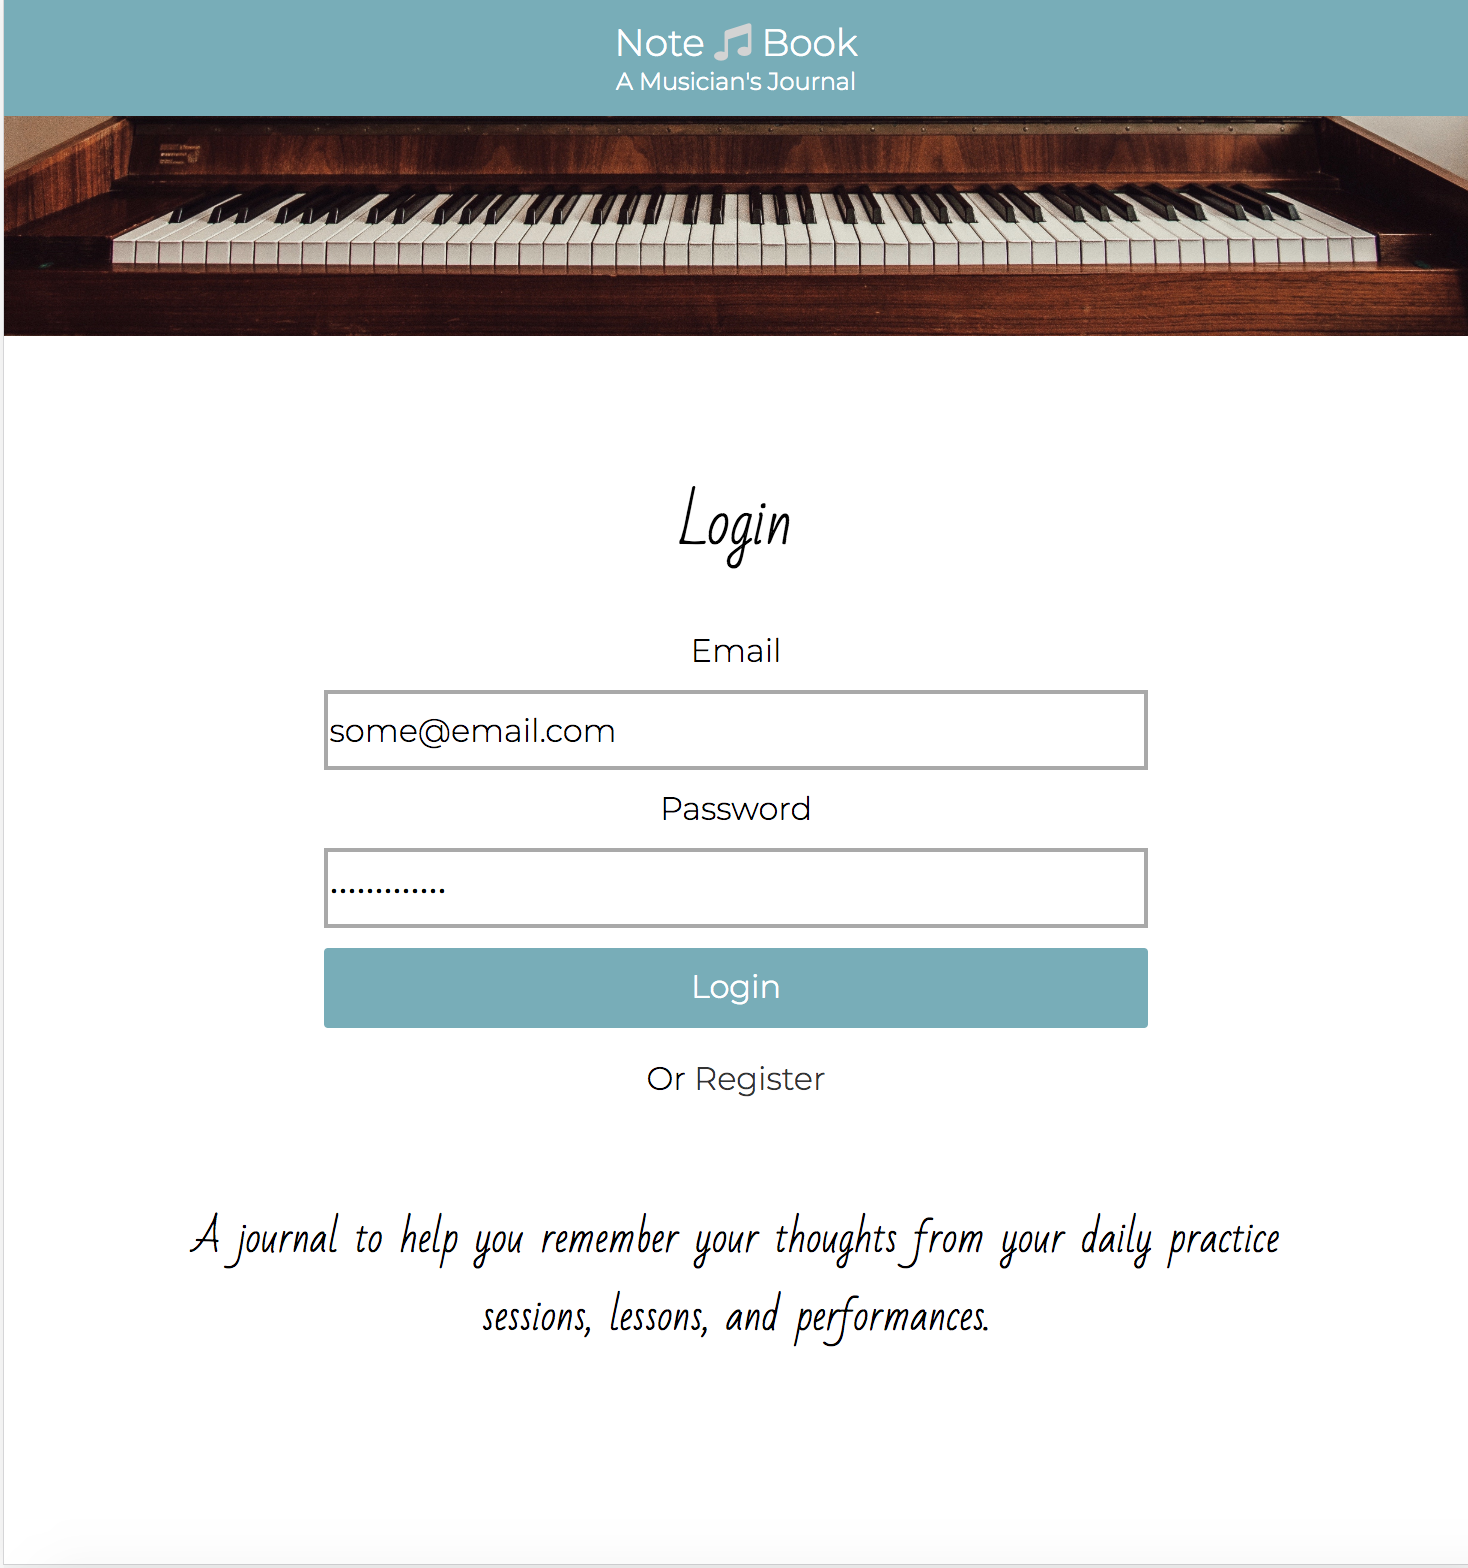
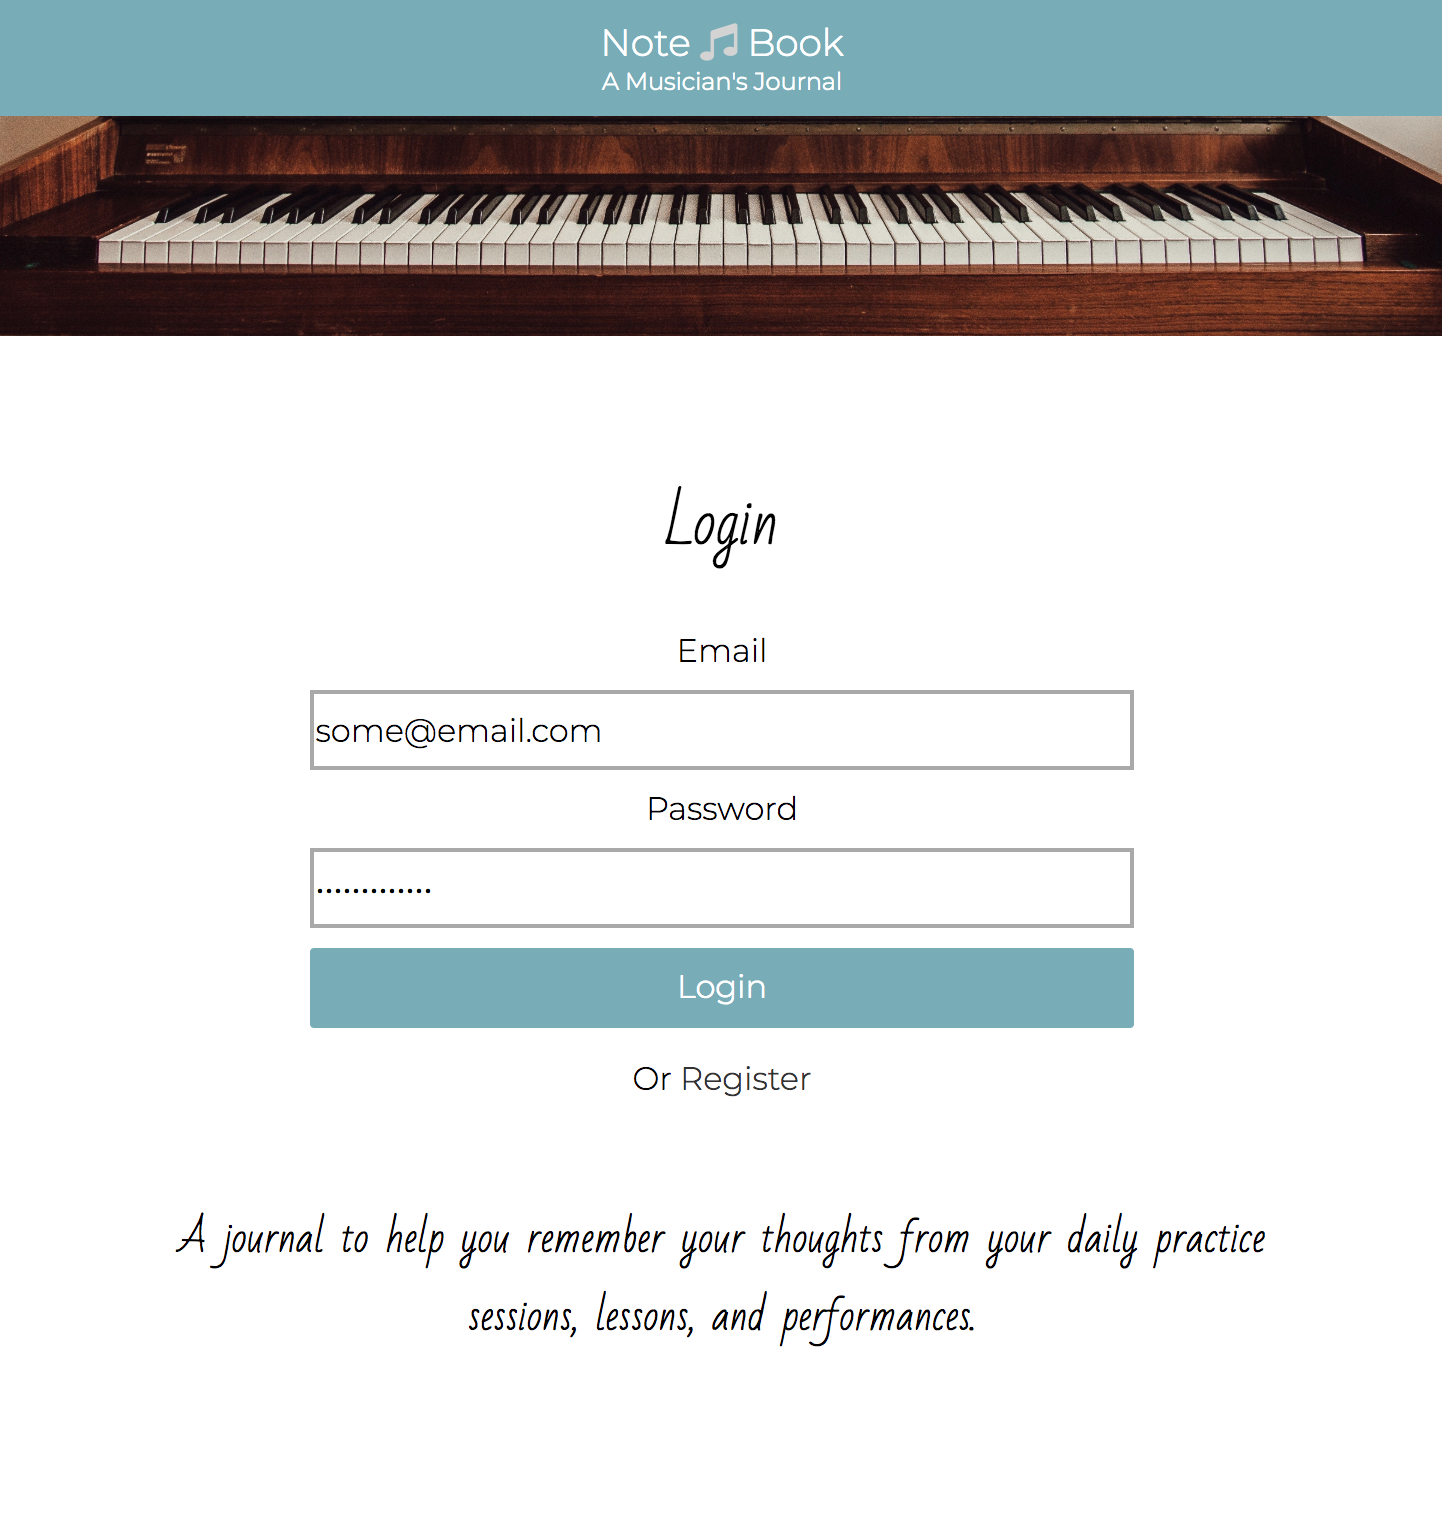
Add background img

diff --git a/js/portfolio.template.js b/js/portfolio.template.js
@@ -24,9 +24,9 @@ const portfolio_template = $(`<section class="section portfolio">
         be there to help guide you along.
          </p>
          <div class="project__links">
-            <div class="project__link"><a href="https://boiling-mountain-55806.herokuapp.com/">View Project</a></div>
-            <div class="project__link"><a href="https://github.com/velafarq/practica-app">View Client-Side Code</a></div>
-            <div class="project__link"><a href="https://github.com/velafarq/practica-api">View Server-Side Code</a></div>
+            <div class="project__link"><a  target="_blank" href="https://boiling-mountain-55806.herokuapp.com/">View Project</a></div>
+            <div class="project__link"><a  target="_blank" href="https://github.com/velafarq/practica-app">View Client-Side Code</a></div>
+            <div class="project__link"><a  target="_blank" href="https://github.com/velafarq/practica-api">View Server-Side Code</a></div>
          </div>
     </div>
   </div>
@@ -53,8 +53,8 @@ const portfolio_template = $(`<section class="section portfolio">
             useful experiences so that they can refer to later.
         </p>
         <div class="project__links">
-            <div class="project__link"><a href="https://calm-escarpment-51268.herokuapp.com/">View Project</a></div>
-            <div class="project__link"><a href="https://github.com/velafarq/note-book-app">View Code</a></div>
+            <div class="project__link"><a target="_blank" href="https://calm-escarpment-51268.herokuapp.com/">View Project</a></div>
+            <div class="project__link"><a target="_blank" href="https://github.com/velafarq/note-book-app">View Code</a></div>
         </div>
 
     </div>
@@ -77,8 +77,8 @@ const portfolio_template = $(`<section class="section portfolio">
         <p class="project__description">Key Ingredient uses Yummly's search API to generate different recipes based on a specific ingredient that the user searches.
         </p>
         <div class="project__links">
-            <div class="project__link"><a href="https://nervous-feynman-1b00ef.netlify.com/">View Project</a></div>
-            <div class="project__link"><a href="https://github.com/velafarq/Key-Ingredient">View Code</a></div>
+            <div class="project__link"><a target="_blank" href="https://nervous-feynman-1b00ef.netlify.com/">View Project</a></div>
+            <div class="project__link"><a target="_blank" href="https://github.com/velafarq/Key-Ingredient">View Code</a></div>
         </div>
     </div>
   </div>

diff --git a/js/about.template.js b/js/about.template.js
@@ -1,15 +1,20 @@
-const about_template = $(`<p class="about__body">My love for coding developed through my lifelong commitment for music making. 
-After receiving a degree in Music Performance in Boulder, CO,
+const about_template = $(`<section class="about"><p class="about__body">
+I was drawn to coding because of its huge scope for the imagination and similarities to creating musical harmonies.  
+After receiving a Bachelor's degree in Cello Performance in Boulder, CO,
 I decided to broaden my career and immerse myself in learning full stack development. 
-I was drawn to coding because of its huge scope for the imagination and similarities to creating music and how it can bring anyone together. 
-I love spending hours in front of my code until I create something cool and beautiful. When I’m not coding, I’m playing with my dog, in my music studio, practicing Bach
-or composing my next rock song, or I am questionably combining my Serbian and South African heritage in the
-kitchen, whipping up a tasty storm. Born in Belgrade, Serbia and raised in Cape Town, South Africa, I love traveling around the world, learning about other cultures and connecting with interesting people.
+
+I love spending hours in front of my code until I create something cool, beautiful, and functional. 
+
+Born in Belgrade, Serbia and raised in Cape Town, South Africa, I love traveling around the world, 
+learning about other cultures and connecting with interesting and creative people. My aim is to work in a collaborative team work 
+environment and to 
+interact with fellow team members in an inspirational and productive manner.
+ I strive to produce innovative code that is full of artistic energy.
 
 </p>
 
 <section class="connect">
-<p class="bigger-text connect__heading">I'd love to connect with you!</p>
+<p class="bigger-text connect__heading">I'd love to connect!</p>
 <div class="connect__icons">
     <a class="social" href="https://github.com/velafarq" target="_blank">
         <i class="large-icon social__icon fab fa-github"></i>
@@ -25,6 +30,8 @@ kitchen, whipping up a tasty storm. Born in Belgrade, Serbia and raised in Cape 
         <i class="large-icon social__icon fas fa-envelope"></i>
     </a>
 </div>
+</section>
+
 </section>
 
 `);

diff --git a/index.html b/index.html
@@ -7,7 +7,7 @@
     <meta http-equiv="X-UA-Compatible" content="ie=edge">
     <script src="https://ajax.googleapis.com/ajax/libs/jquery/3.3.1/jquery.min.js"></script>
     <link rel="stylesheet" href="./styles.css">
-    <link rel='shortcut icon' type='image/x-icon' href='./favicon.ico' />
+    <link rel='shortcut icon' type='image/png' href='./favicon.png' />
     <link rel="stylesheet" href="https://use.fontawesome.com/releases/v5.3.1/css/all.css" integrity="sha384-mzrmE5qonljUremFsqc01SB46JvROS7bZs3IO2EmfFsd15uHvIt+Y8vEf7N7fWAU"
         crossorigin="anonymous">
     <link rel="stylesheet" href="https://cdn.rawgit.com/konpa/devicon/df6431e323547add1b4cf45992913f15286456d3/devicon.min.css">
@@ -17,7 +17,7 @@
     <title>Vela Farquharson</title>
 </head>
 
-<body>
+<body class="background">
     <section class="flex-container">
         <header class="header">
             <nav class="header__nav">
@@ -37,17 +37,17 @@
                     About</a>
                 <div class="header__social">
                     <a class="social-header" href="https://github.com/velafarq" target="_blank">
-                        <i class="small-icon social__icon fab fa-github"></i>
+                        <i class="small-icon social__icon__bar fab fa-github"></i>
                     </a>
                     <a class="social-header" href="https://www.linkedin.com/in/velafarquharson/" target="_blank">
-                        <i class="small-icon social__icon fab fa-linkedin-in"></i>
+                        <i class="small-icon social__icon__bar fab fa-linkedin-in"></i>
                     </a>
                     <a class="social-header" href="https://twitter.com/velafarq" target="_blank">
-                        <i class="small-icon social__icon fab fa-twitter"></i>
+                        <i class="small-icon social__icon__bar fab fa-twitter"></i>
                     </a>
 
                     <a class="social-header" href="mailto:vela.mrdjen@gmail.com" target="_blank">
-                        <i class="small-icon social__icon fas fa-envelope"></i>
+                        <i class="small-icon social__icon__bar fas fa-envelope"></i>
                     </a>
                 </div>
 

diff --git a/styles.css b/styles.css
@@ -3,7 +3,7 @@
   padding: 0;
   /* box-sizing: border-box; */
   /* font-family: "Source Sans Pro", sans-serif; */
-  color: #444;
+  color: white;
   font-family: "Roboto Condensed", sans-serif;
   font-weight: lighter;
 }
@@ -16,7 +16,7 @@
   font-size: 20px;
 }
 .large-icon {
-  color: #7a7a7a;
+  color: white;
 }
 
 .bigger-text {
@@ -36,7 +36,7 @@
   padding-right: 20px;
   height: 100%;
   min-height: 500px;
-  background-color: rgba(4, 4, 122, 0.377);
+  background-color: rgba(4, 4, 122, 0.63);
 }
 
 .header__nav {
@@ -71,7 +71,9 @@
   margin: 35px;
   border: none;
 }
-
+.background {
+  background: url("./assets/IMG_6244.png") no-repeat fixed center;
+}
 .main {
   max-height: 100vh;
   margin: auto;
@@ -98,9 +100,18 @@
   justify-content: center;
   text-align: left;
 }
+.blurb {
+  max-width: 1100px;
+}
 
+.blurb p {
+  margin-top: 20px;
+  font-size: 30px;
+  color: white;
+}
 .project {
   box-sizing: border-box;
+
   padding: 10px;
 }
 
@@ -127,6 +138,7 @@
   padding: 20px;
   align-items: center;
   text-align: center;
+  font-size: 20px;
 }
 .project__img-container {
   flex: 1;
@@ -146,13 +158,22 @@
   margin: 5px;
   font-size: 10px;
 }
+
+.about {
+  max-width: 1100px;
+}
 .social {
   color: #363636;
   font-size: 2.5em;
   text-decoration: none;
-  margin: 20px;
+}
+.social__icon__bar {
+  transition: 0.4s;
 }
 
+.social__icon__bar:hover {
+  color: rgb(7, 59, 119);
+}
 .social__icon {
   transition: 0.4s;
 }
@@ -204,5 +225,5 @@
 
 .project__link:hover {
   cursor: pointer;
-  background-color: rgba(4, 4, 122, 0.863);
+  background-color: rgba(4, 4, 122, 0.63);
 }

diff --git a/js/home.template.js b/js/home.template.js
@@ -1,8 +1,11 @@
-const home_template = $(` <section class="section about bigger-text">
+const home_template = $(` 
+<section class="section blurb">
+    
 
-<div></div>
-<div>I am a full stack JavaScript developer based in Minneapolis.</div>
-<div>I love talking about coding with anyone, discovering interesting places in the Twin Cities, listening to jazz, and traveling the world.</div>
-<div></div>
-
+    <div>   
+        <p>I am a full stack JavaScript developer based in Minneapolis.</p>
+        <p>Having spent over 20 years of my life practicing music, I love to combine my love and skill for coding with music and the arts.</p>
+        <p>When I'm not coding, I'm out discovering interesting places around the Twin Cities, playing the cello, 
+        listening to jazz, and training my Golden Retreiver, Charlie Parker.</p>
+    </div>
 </section>`);
